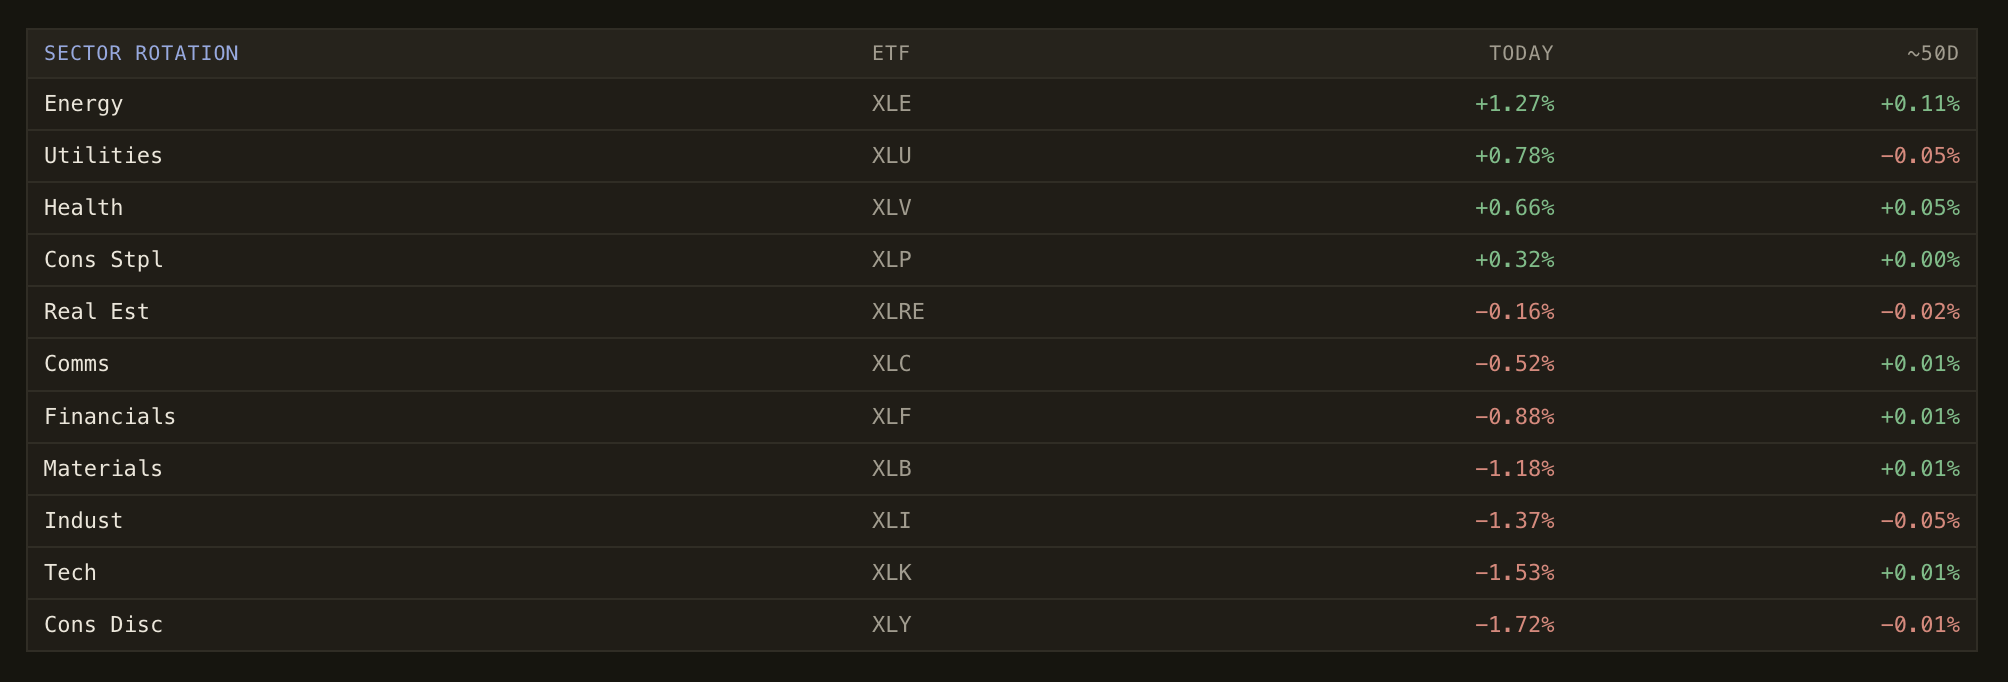
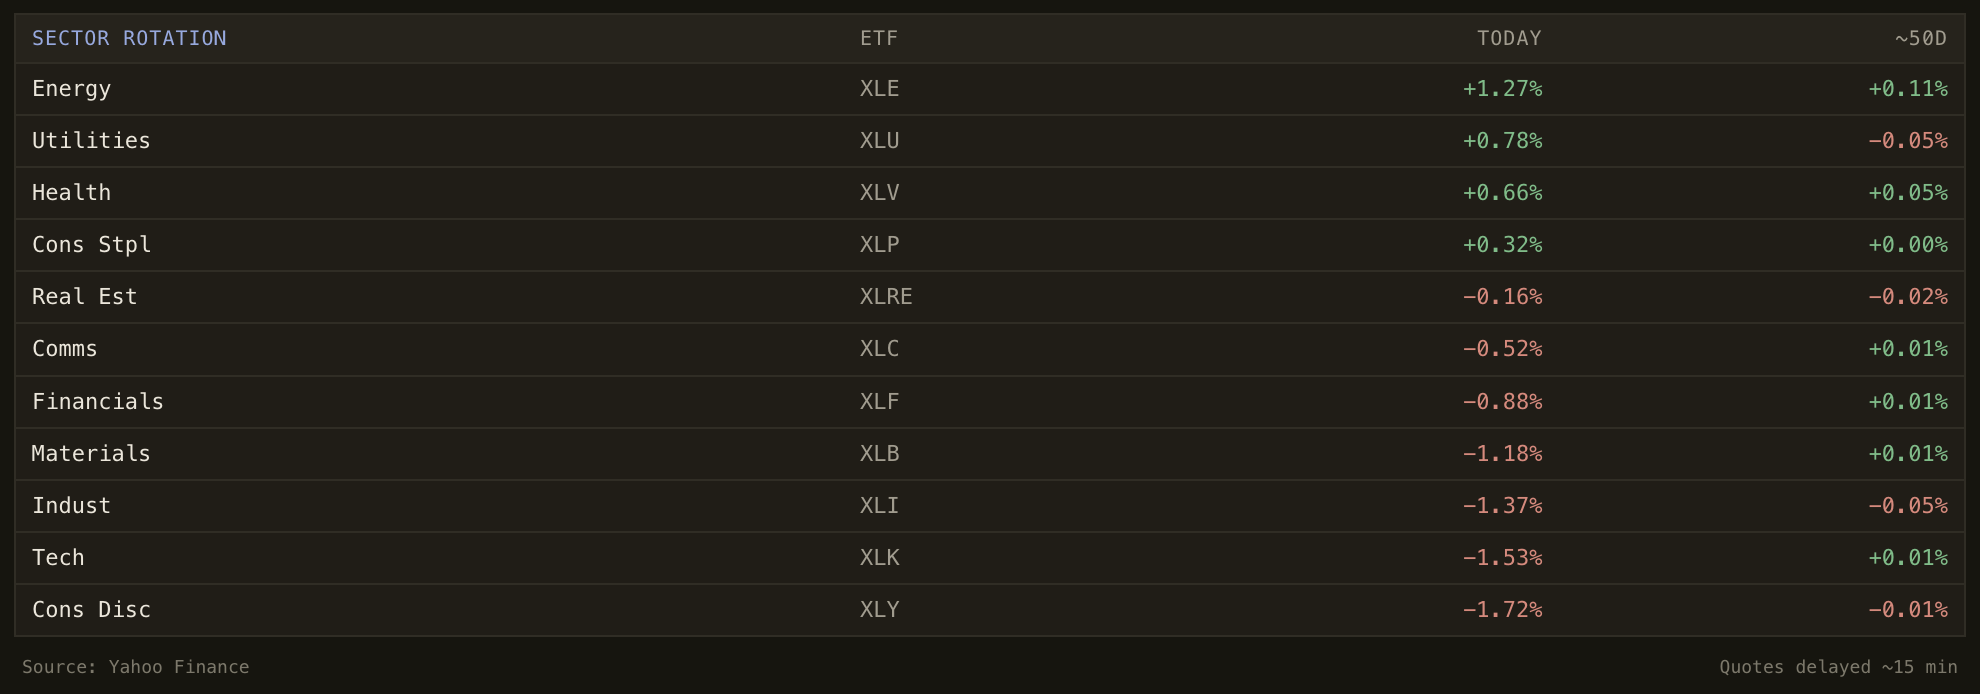
Retake the sector rotation table with its source footer
Claude-Session: https://claude.ai/code/session_01PMjnzwSkUCXhYtShDJKjLg

diff --git a/src/data/case-studies.ts b/src/data/case-studies.ts
@@ -531,7 +531,7 @@ export const caseStudies: Record<string, CaseStudy> = {
         type: "image",
         src: "/projects/buy-side-sector-rotation.png",
         width: 620,
-        alt: "The sector rotation table: eleven sectors from Energy down to Consumer Discretionary, each with its ETF ticker, today's move, and the fifty day move, the gains in green and the losses in red",
+        alt: "The sector rotation table: eleven sectors from Energy down to Consumer Discretionary, each with its ETF ticker, today's move, and the fifty day move, the gains in green and the losses in red, with a source line under it noting the quotes are delayed",
       },
 
       {
